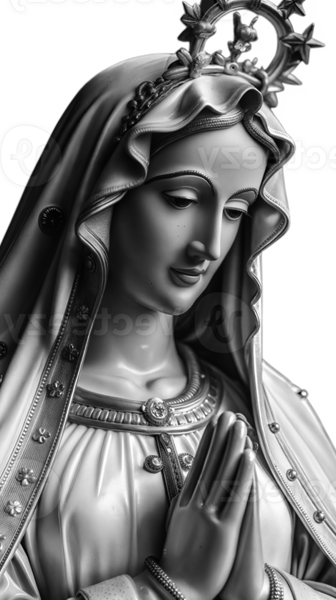
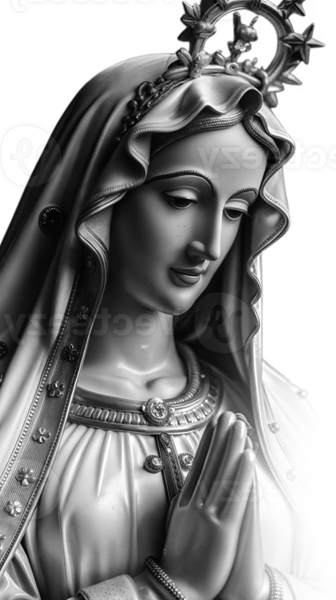
Atualiza imagem de Maria alinhada à esquerda no plano de fundo

Changed region(s): [[0.625, 0.57, 1.0, 1.0], [0.8036, 0.6, 0.8333, 0.63]]

diff --git a/src/components/SpiritsOfLightBackground.tsx b/src/components/SpiritsOfLightBackground.tsx
@@ -58,7 +58,7 @@ export function SpiritsOfLightBackground() {
       <div
         className="absolute inset-y-0 left-0 w-full bg-no-repeat"
         style={{
-          backgroundImage: "url('/maria-bg.png')",
+          backgroundImage: "url('/maria-bg.png?v=2')",
           backgroundPosition: "left bottom",
           backgroundSize: "contain",
           opacity: 0.24,
